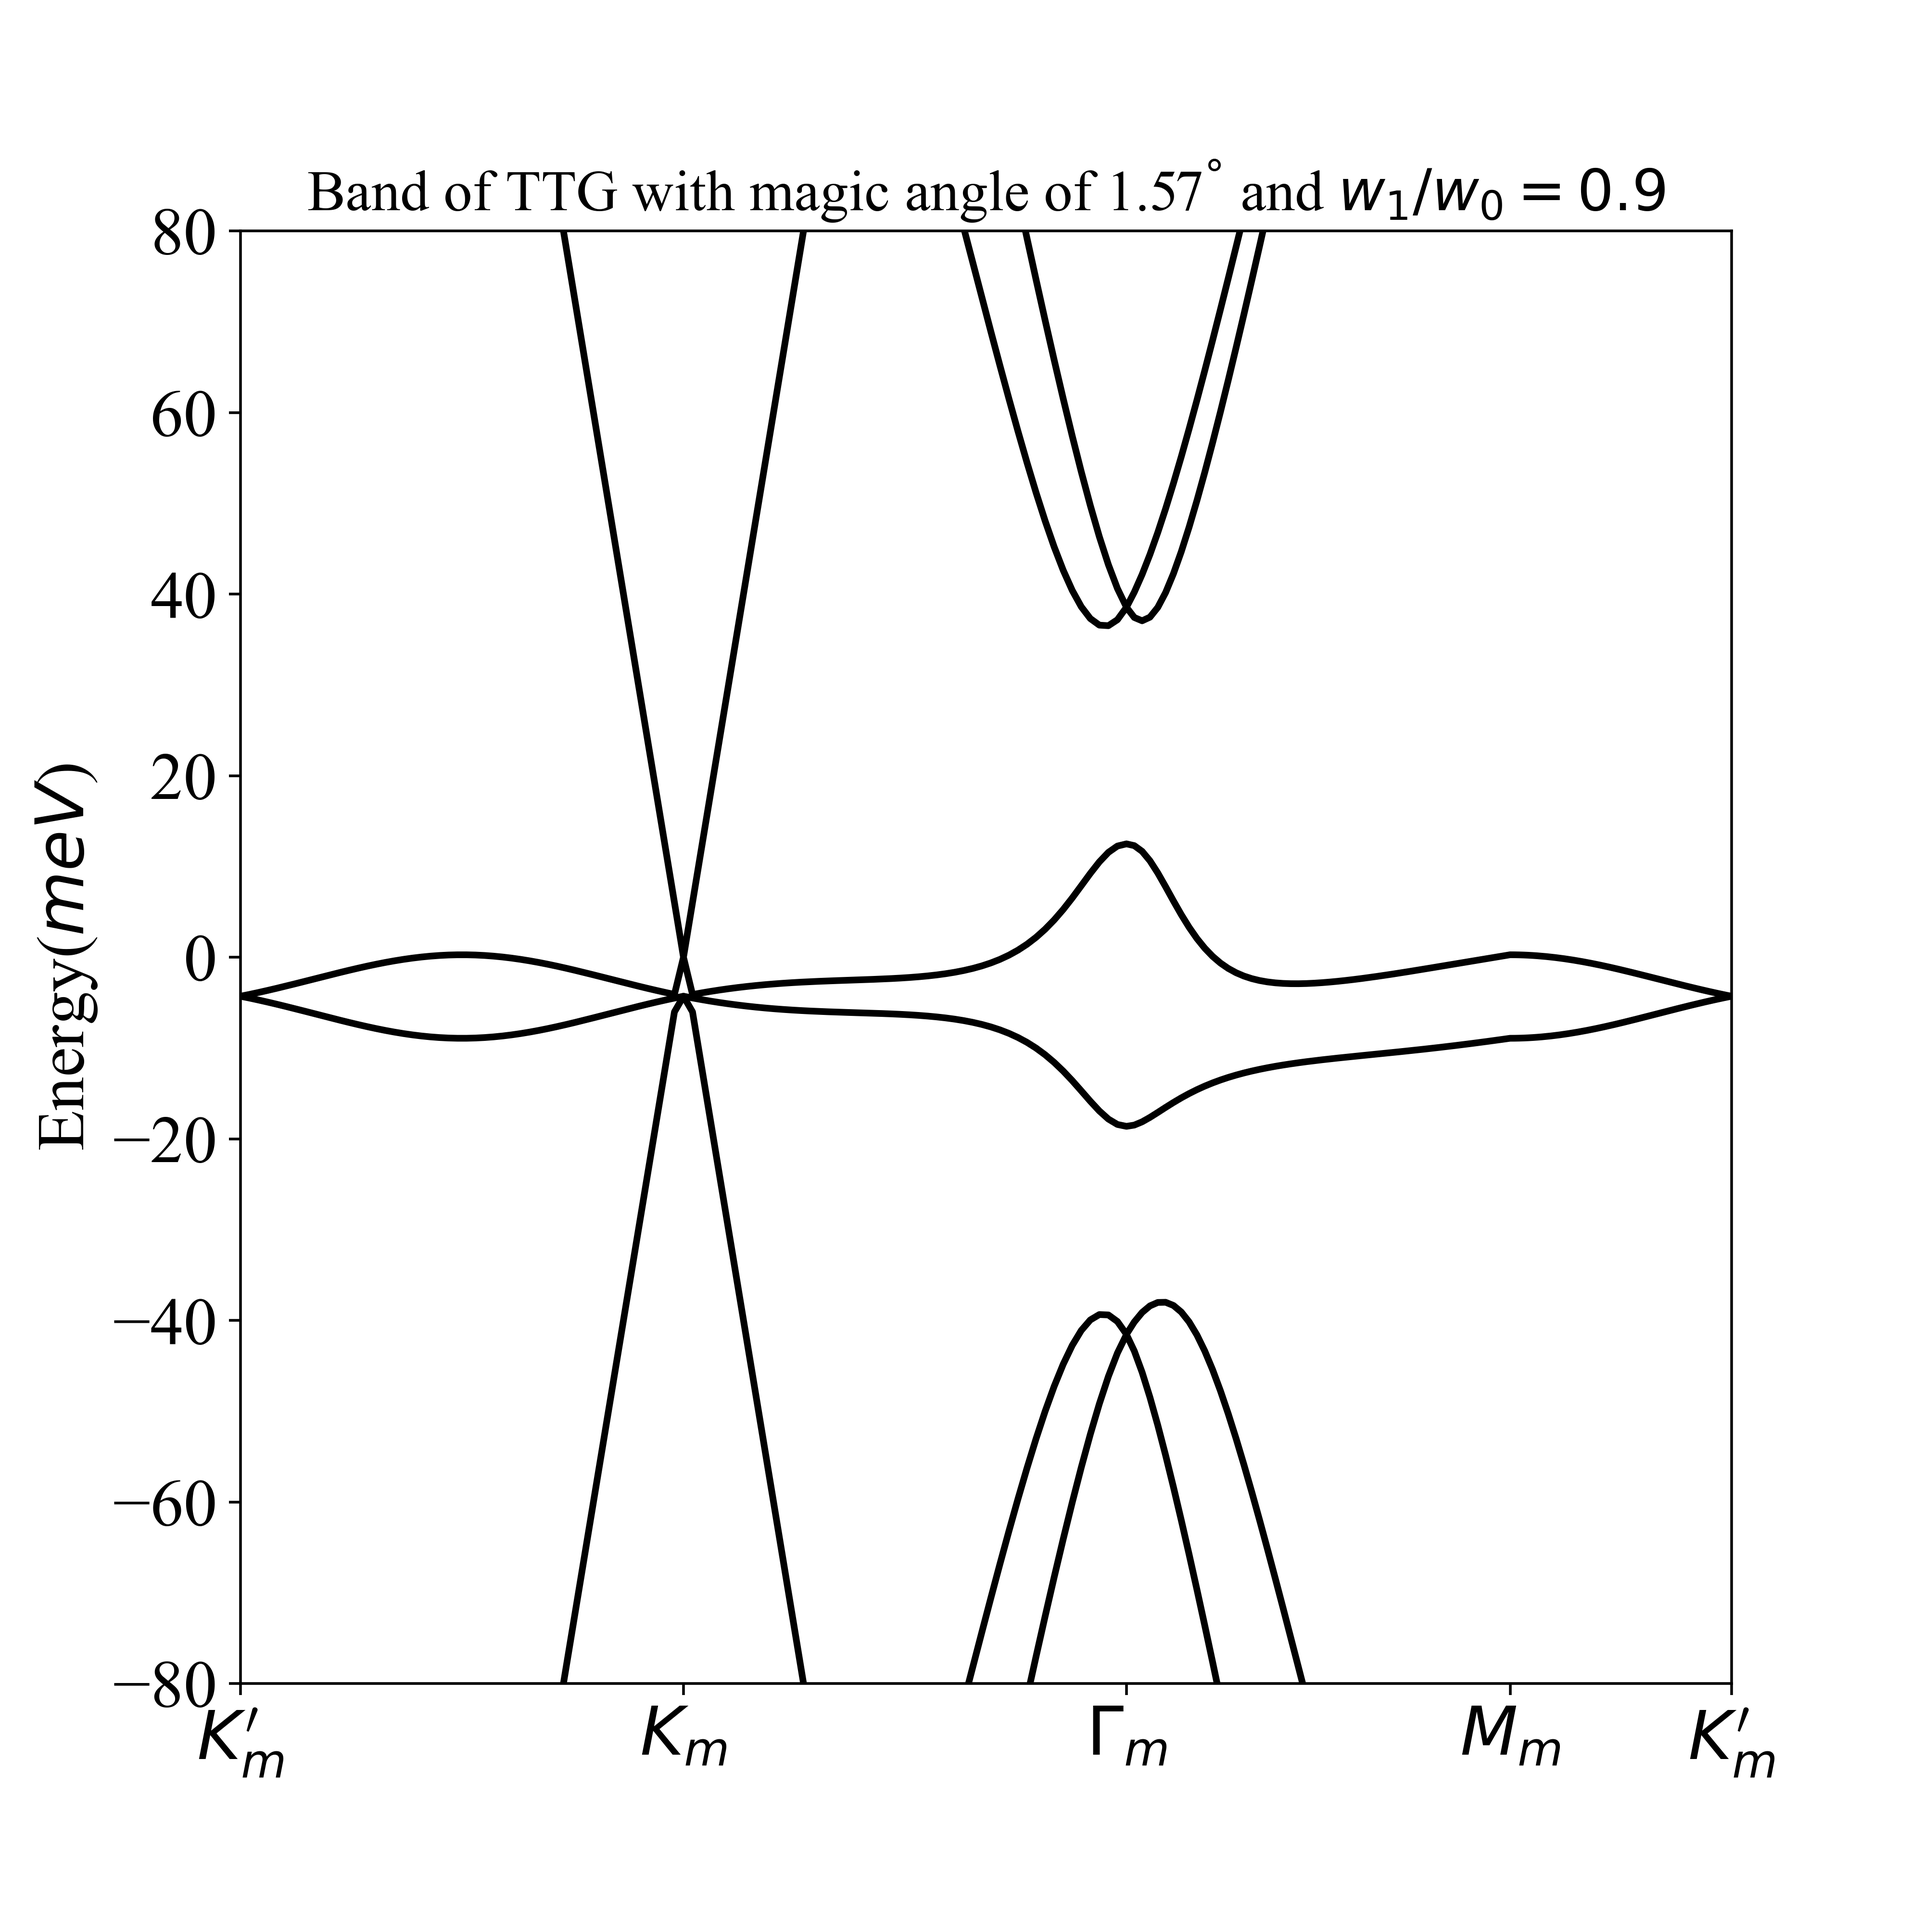
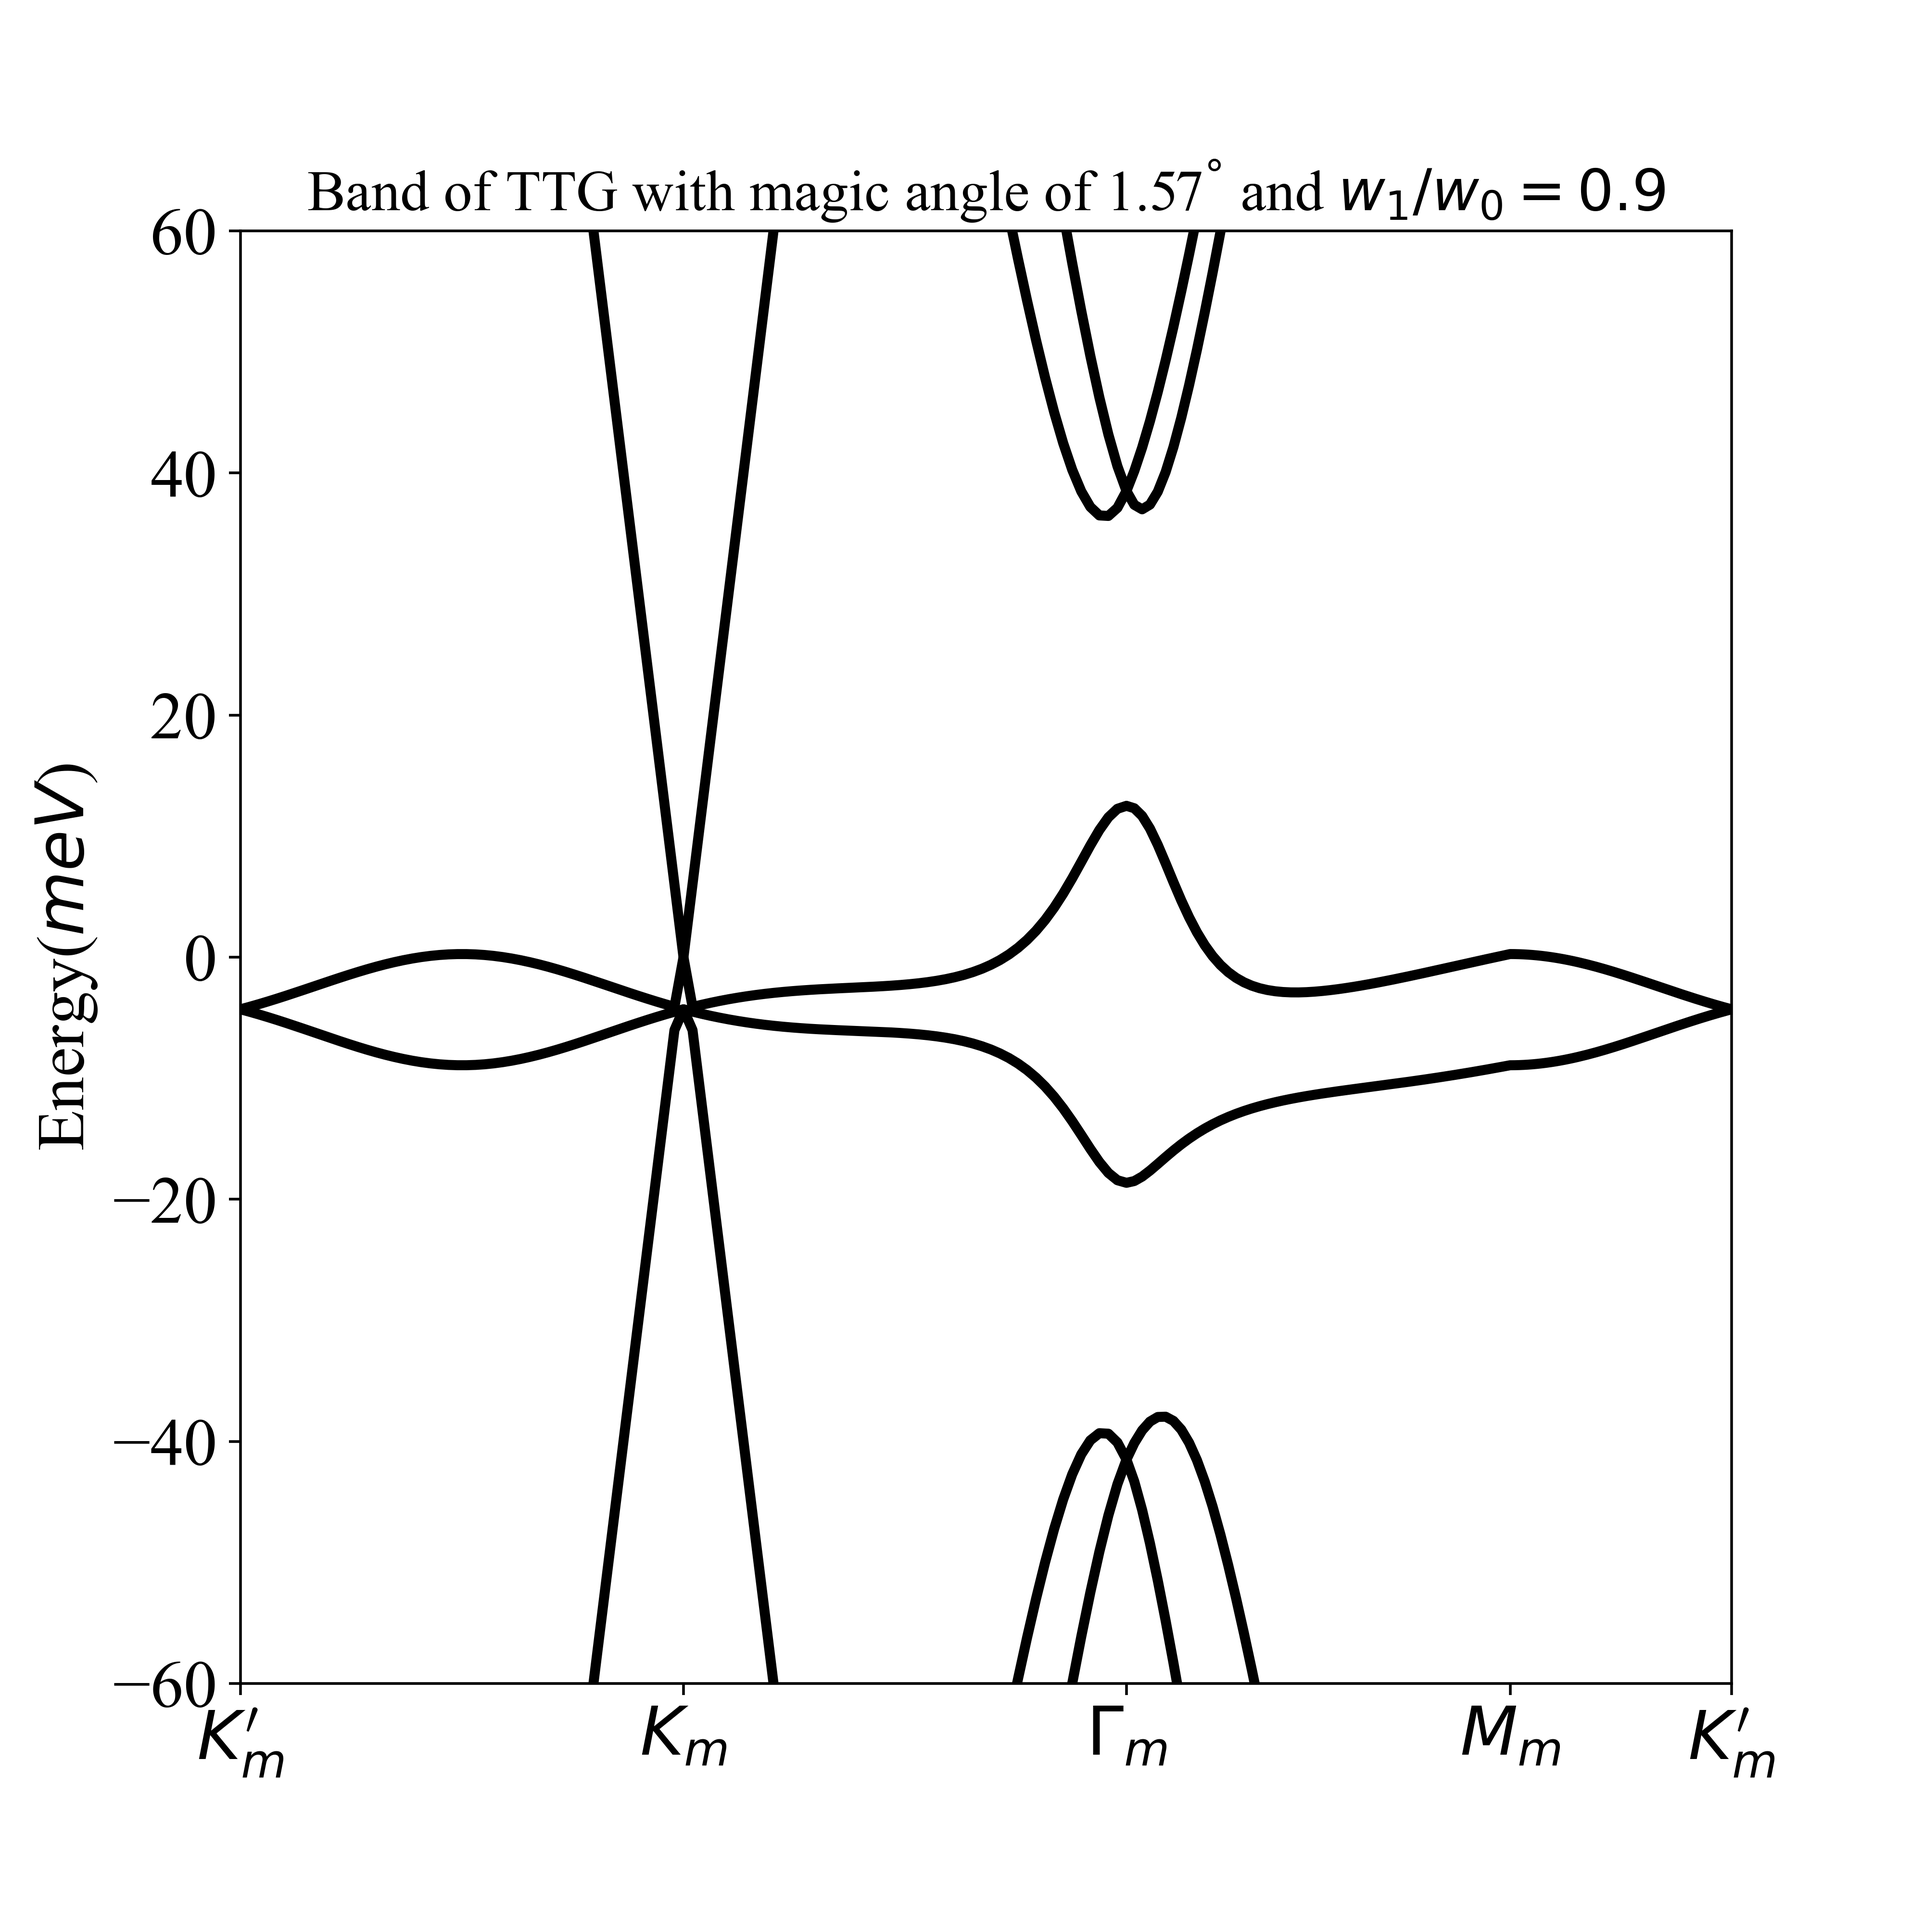
add TTG datas

diff --git a/plot_band.py b/plot_band.py
@@ -8,7 +8,7 @@ Module to plot band for MATBG ...
 from config import * 
 import numpy as np 
 import matplotlib.pyplot as plt
-from MATBG_Ham import Hamiltonian
+from MATTG_Ham import Hamiltonian
 from k_sym_gen import *
 
 def H(k):
@@ -16,7 +16,8 @@ def H(k):
     return e
 
 def band_post():
-    syms = [K2,K1,G,M,K2]
+    #syms = [G, K1, M, K2, G, M, G]
+    syms = [K2, K1, G, M, K2]
     k_point_path, k_path, Node = k_path_sym_gen(syms)
     E_band = []
     
@@ -32,6 +33,7 @@ def band_post():
 
 def plot_band(): 
     k_sym_label =  [r"$K^{\prime}_{m}$",r"$K_{m}$", r"$\Gamma_{m}$", r"$M_{m}$",  r"$K^{\prime}_{m}$"]
+    #k_sym_label =  [r"$\Gamma_{m}$", r"$K_{m}$", r"$M_{m}$", r"$K^{\prime}_{m}$", r"$\Gamma_{m}$", r"$M_{m}$",   r"$\Gamma_{m}$"]
     font = {'family': "Times New Roman", "weight":"normal", "size":20,}
     E_band, k_point_path, k_path, Node= band_post()
     shape = E_band.shape
@@ -44,10 +46,10 @@ def plot_band():
         for j in range(shape[0]):
             eig_test.append(E_band[j][:,i])
         eig = np.hstack(tuple(eig_test))
-        plt.plot(k_path, eig, "black", linewidth=2)   
+        plt.plot(k_path, eig, "black", linewidth=3)   
     
     plt.xlim(0, k_path[-1])
-    plt.ylim(-80,80)
+    plt.ylim(-60,60)
     plt.xticks(Node, k_sym_label) 
     #plt.xlabel("$K$-points", font)
     plt.ylabel("Energy($meV$)", font)
@@ -56,10 +58,10 @@ def plot_band():
     plt.yticks(fontproperties = "Times New Roman", fontsize=20)
     #plt.text(0.2,6.1, "(a)", fontsize=20, style= "Times New Roman")
     #plt.text(4.5,5, "$\mathregular{\Delta J_2 / D = 0.1}$", fontdict = font_txt)
-    title = r"Band of TBG with magic angle of {}$^\degree$ and $w_1 / w_0 = {}$".format(theta_v, r1)
+    title = r"Band of TTG with magic angle of {}$^\degree$ and $w_1 / w_0 = {}$".format(theta_v, r1)
     plt.title(title,loc = "center",fontdict={"size":"xx-large","color":"black", "family":"Times New Roman"})
     
-    plt.savefig("./figure/MATBG_{}_{}.png".format(theta_v, r1), dpi=500)
+    plt.savefig("./figure/MATTG_{}_{}.png".format(theta_v, r1), dpi=500)
     
     plt.show()
 

diff --git a/config.py b/config.py
@@ -9,7 +9,7 @@ from numpy import *
 import numpy as np
 
 #define constant
-theta_v  = 1.05          #degree
+theta_v  = 1.57          #degree
 w1  = 110.7          #interlayer hopping term //mev
 r1 = 0.9  # w1/w0 in 1-2 layer
 w0 = w1*(r1)
@@ -18,7 +18,7 @@ w0 = w1*(r1)
 #w0 = w1*(r12)
 d      = 1.420          #angstrom, whatever is ok.
 hv     = 1.5*d*2970     #meV*angstrom, Fermi velocity for SLG
-N      = 2              #truncate range
+N      = 3              #truncate range
 valley = +1             #+1 for K, -1 for K'
 npoints  = 50           #density of k points, 50 is good
 
